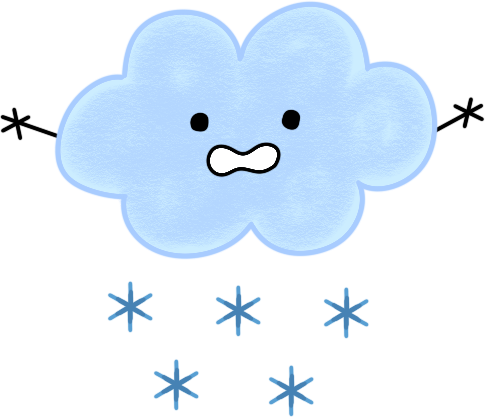
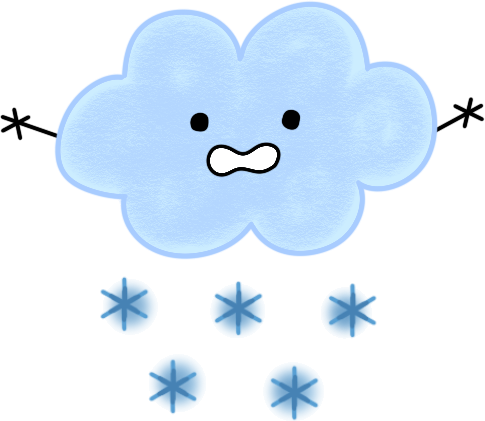
feat(mascot): 바람이·풀 합류 + 눈구름 교체 — 개념 14 : 그림 14 완전 1:1
사용자 지시(2026-08-18). 마지막까지 남아 있던 겹침 둘이 풀렸다:
· 압력의 기초 — 구름이(기압과 전선과 겸업) → **바람이**
· 복사와 에너지 수지 — 태양이(열섬과 겸업) → **풀**
`conceptCharacter.js`가 *"그림이 둘 더 생기면 여기만 고친다"*고 적어 둔
그 자리다. 이제 폴백(구름)으로 떨어지는 태그가 없다.

── 그림 처리 (원본 1080² 캔버스 → 내용 경계 크롭) ──
· 알파 <10 픽셀을 0으로 — `getbbox()`가 눈에 안 보이는 잔털까지 세어
  snowcloud가 485×421이 아니라 1030×962로 잘리고 있었다
· 조각 면적 <500px 제거 — 실제 조각 최소 2222px(눈송이) vs 잔점 최대 83px.
  「가장 큰 것만」이 아니라 면적 문턱인 이유는 **눈송이 5개가 떨어져 있는
  진짜 조각**이라서다
· 풀만 왼쪽 20° 회전을 **PNG에 구워 넣었다**(사용자 지시) — CSS 회전은
  정사각 박스에서 모서리가 잘리고 여백 0 계약도 깨진다
실측 snowcloud 485×421 · wind 569×307 · grass 423×400, 셋 다 여백 0.
22·28·50px 실제 표시 크기로 렌더 확인.

── 코드 리뷰 7건 반영 ──
⚠ **가장 무거운 것: `wind`·`grass`가 `LABEL`에 없었다.** SRC에만 넣으면
`MASCOT_NAMES[name]`이 undefined라 `decorative={false}` 호출부에서 alt가
빈 문자열이 된다 — 장식이 아니라고 선언해 놓고 읽어 줄 이름이 없는 상태다.

· `CONCEPT_ICON`이 캐릭터 배정과 어긋났다. 그 표 머리말이 "캐릭터 배정과
  짝을 맞춘다"고 스스로 선언하는데 복사와 에너지 수지만 ☀로 남아, 같은
  개념이 유닛 노드와 능력 분석에서 **다른 얼굴**이 됐다 → 🌿 · 압력의
  기초도 💨로. 재난 2종(🔥·🌊)이 표에 아예 없어 책 아이콘으로 떨어지던
  것도 함께 채웠다.
· **한글 이름 원본 3장을 걷었다**(`눈구름/바람이/풀.png` — 웹 업로드
  `288441b`로 들어와 있었다). 어디서도 참조되지 않는데 dist에는 실려
  나가고, SRC를 안 거치니 여백 검사도 비켜 갔다. 같은 그림의 크롭 전
  원본이라 지워도 잃는 것이 없다.
· 낡은 문장 정정("뒤의 여섯" → 여덟), 눈구름 교체 경위 기록(파일명이 같아
  diff에 `Bin` 한 줄로만 남는다).

── 계약 ⑤ 신설·강화 ──
· 태그 소유자를 **시드 ∪ 백엔드 CONCEPT_TAGS**로. 저작보다 먼저 태그를
  여는 것이 이 저장소의 문서화된 패턴이라(재난 2종), 시드만 보면 「열렸지만
  문항 없는 태그」가 조용히 폴백으로 떨어진다
· SRC ↔ LABEL 짝 · 태그 ↔ 유닛 노드 아이콘 짝
· 1:1 판정을 산문 정규식(`/완전 1:1/`)이 아니라 **`@contract` 표식**에 건다.
[…]

diff --git a/frontend/src/components/Mascot.jsx b/frontend/src/components/Mascot.jsx
@@ -20,21 +20,34 @@
  *   rainbow 무지개 화면 담당 없음 — 개념 전용(밀도와 부력). 2026-08-08 합류
  *   moon    달님   화면 담당 없음 — 개념 전용(열의 이동). 2026-08-08 합류
  *   snowcloud   눈구름 개념 전용(물의 상태변화). 2026-08-10 합류
+ *               ⚠ **그림이 2026-08-18에 교체됐다**(사용자 지시) — 배정·이름은
+ *               그대로고 PNG만 바뀌었다. 파일명이 같아 diff에 'Bin' 한 줄로만
+ *               남으므로 여기 적어 둔다.
  *   raincloud   비구름 개념 전용(홍수 대응). 2026-08-10 합류
  *   fire        불     개념 전용(산불 기상). 2026-08-10 합류
  *   thermometer 온도계 개념 전용(온도와 열). 2026-08-10 합류
+ *   wind        바람이 개념 전용(압력의 기초). 2026-08-18 합류
+ *   grass       풀     개념 전용(복사와 에너지 수지). 2026-08-18 합류
  *
- * 뒤의 여섯은 **화면이 아니라 개념에 붙는다**. 기초과학 코스가 들어오면서 개념
+ * 뒤의 여덟은 **화면이 아니라 개념에 붙는다**. 기초과학 코스가 들어오면서 개념
  * 태그가 6종 늘었는데 그림은 6장뿐이라 전부 구름으로 떨어졌다(conceptCharacter의
  * 폴백) — 홈의 복습·최근 활동 줄이 전부 같은 얼굴이었다. 배정표는
  * `conceptCharacter.js`가 소유한다.
  * 2026-08-10에 넷이 더 합류해 12장이 됐다: 표에 아예 없던 산불 기상·홍수 대응이
  * 자기 얼굴을 갖고, 두 뜻을 지고 있던 눈결정·물방울에서 겹침이 하나씩 풀렸다.
+ * **2026-08-18에 둘이 더 합류해 14장 — 개념 14종과 완전 1:1이 됐다.** 마지막까지
+ * 남아 있던 겹침 둘(구름이 = 기압과 전선·압력의 기초, 태양이 = 열섬·복사와 에너지
+ * 수지)이 바람이·풀로 풀렸다. `conceptCharacter.js`가 *"그림이 둘 더 생기면 여기만
+ * 고친다"*고 적어 둔 그 자리다 — 이제 폴백(구름)으로 떨어지는 개념 태그는 없다.
  *
  * 이전 마스코트(노란 고양이 「썬더」)는 폐기됐다. 호출부가 public 경로를 직접
  * 참조하면 캐릭터가 바뀔 때마다 화면 곳곳을 고쳐야 하므로 여기 한 곳으로 모은다.
  * 파일명은 ASCII로 둔다 — 한글 파일명은 브라우저가 URL 인코딩해서 서버 설정에
  * 따라 404가 난다.
+ * ⚠ **한글 이름 원본 3장이 실제로 들어와 있었다**(`눈구름/바람이/풀.png`,
+ * GitHub 웹 업로드 `288441b`). 어디서도 참조되지 않는데 `dist/`에는 실려 나가고,
+ * SRC를 통하지 않으니 ① 여백 검사도 비켜 갔다 — 2026-08-18에 걷었다. 새 그림은
+ * **SRC에 등록되는 ASCII 이름 한 벌만** 저장소에 남긴다.
  *
  * 정렬(2026-08-06): PNG는 **알파 내용 경계로 크롭돼 있다**. 원본은 캔버스마다
  * 투명 여백이 제각각이었고(snow는 중심이 8px 어긋나 있었다) 같은 박스에 넣어도
@@ -63,6 +76,8 @@ const SRC = {
   raincloud: '/raincloud.png',
   fire: '/fire.png',
   thermometer: '/thermometer.png',
+  wind: '/wind.png',
+  grass: '/grass.png',
 };
 
 const LABEL = {
@@ -79,6 +94,8 @@ const LABEL = {
   raincloud: '비구름',
   fire: '불꽃이',
   thermometer: '온도계',
+  wind: '바람이',
+  grass: '풀',
 };
 
 export const MASCOT_NAMES = LABEL;

diff --git a/frontend/src/components/conceptCharacter.js b/frontend/src/components/conceptCharacter.js
@@ -29,8 +29,17 @@
  *      전선·기압의 기초와 **같은 얼굴**이었다. 불·비구름이 자기 자리를 가진다.
  *   ② 온도와 열: 물방울 → **온도계**. 물방울이 CO₂·기후와 겹쳐 있던 것이 풀린다.
  *   ③ 물의 상태변화: 눈결정 → **눈구름**. 눈결정이 기단과 겹쳐 있던 것이 풀린다.
- * 남은 겹침은 둘뿐이다(태양 = 열섬·복사 균형, 구름 = 기압과 전선·기압의 기초).
- * 개념 14 > 그림 12라 완전 1:1은 아직 안 된다 — 그림이 둘 더 생기면 여기만 고친다.
+ * ✅ **겹침이 0이 됐다**(2026-08-18). 종전 이 자리에 *"남은 겹침은 둘(태양 =
+ * 열섬·복사 균형, 구름 = 기압과 전선·기압의 기초). 개념 14 > 그림 12라 완전 1:1은
+ * 아직 안 된다 — 그림이 둘 더 생기면 여기만 고친다"*고 적혀 있었다. 그림 둘이
+ * 생겨(바람이·풀) 예고한 대로 이 표만 고쳤다: 압력의 기초 → **바람이**,
+ * 복사와 에너지 수지 → **풀**. 개념 14 : 그림 14로 **완전 1:1**이라 지금은
+ * 폴백(구름)으로 떨어지는 태그가 없다 — 폴백은 미지 태그 대비로만 남는다.
+ *
+ * @contract concept-character-1to1
+ *   이 줄이 있는 동안 `mascotAssets.contract` ⑤가 **겹침 0**을 강제한다. 개념이
+ *   그림보다 많아져 1:1을 접기로 하면 **이 한 줄만 지우면 된다** — 위 서술은
+ *   경위라서 남긴다(CLAUDE.md §0-5).
  */
 const BY_CONCEPT = {
   // 날씨 코스(weather)
@@ -44,8 +53,9 @@ const BY_CONCEPT = {
   flood_response: 'raincloud',
   // 기초과학 코스(basic-science)
   temperature_heat: 'thermometer',
-  radiation_budget: 'sun',
-  pressure_basics: 'cloud',
+  // 2026-08-18 — 마지막 겹침 둘이 풀렸다(아래 머리말).
+  radiation_budget: 'grass',
+  pressure_basics: 'wind',
   density_buoyancy: 'rainbow',
   phase_change: 'snowcloud',
   energy_transfer: 'moon',

diff --git a/frontend/src/modules/curriculum/CurriculumHome.jsx b/frontend/src/modules/curriculum/CurriculumHome.jsx
@@ -43,11 +43,17 @@ const CONCEPT_ICON = {
   anomaly: '⚡',
   // 기초과학 코스(basic-science)
   temperature_heat: '🌡',
-  radiation_budget: '☀',
-  pressure_basics: '🎈',
+  // 2026-08-18 — 캐릭터가 sun → grass, cloud → wind로 바뀌어 아이콘도 함께 옮겼다.
+  // 짝이 어긋나면 같은 개념이 유닛 노드와 능력 분석에서 **다른 얼굴**로 보인다.
+  radiation_budget: '🌿',
+  pressure_basics: '💨',
   density_buoyancy: '🌈',
   phase_change: '💧',
   energy_transfer: '🌙',
+  // 재난 축 2종 — 표에 없어 폴백('📘')으로 떨어져 있었다(2026-08-18에 발견).
+  // 캐릭터는 진작 있었다(fire · raincloud).
+  wildfire_weather: '🔥',
+  flood_response: '🌊',
 };
 
 // 세로 경로의 좌우 지그재그 오프셋(%) — 섹션 내 유닛 순서로 순환
